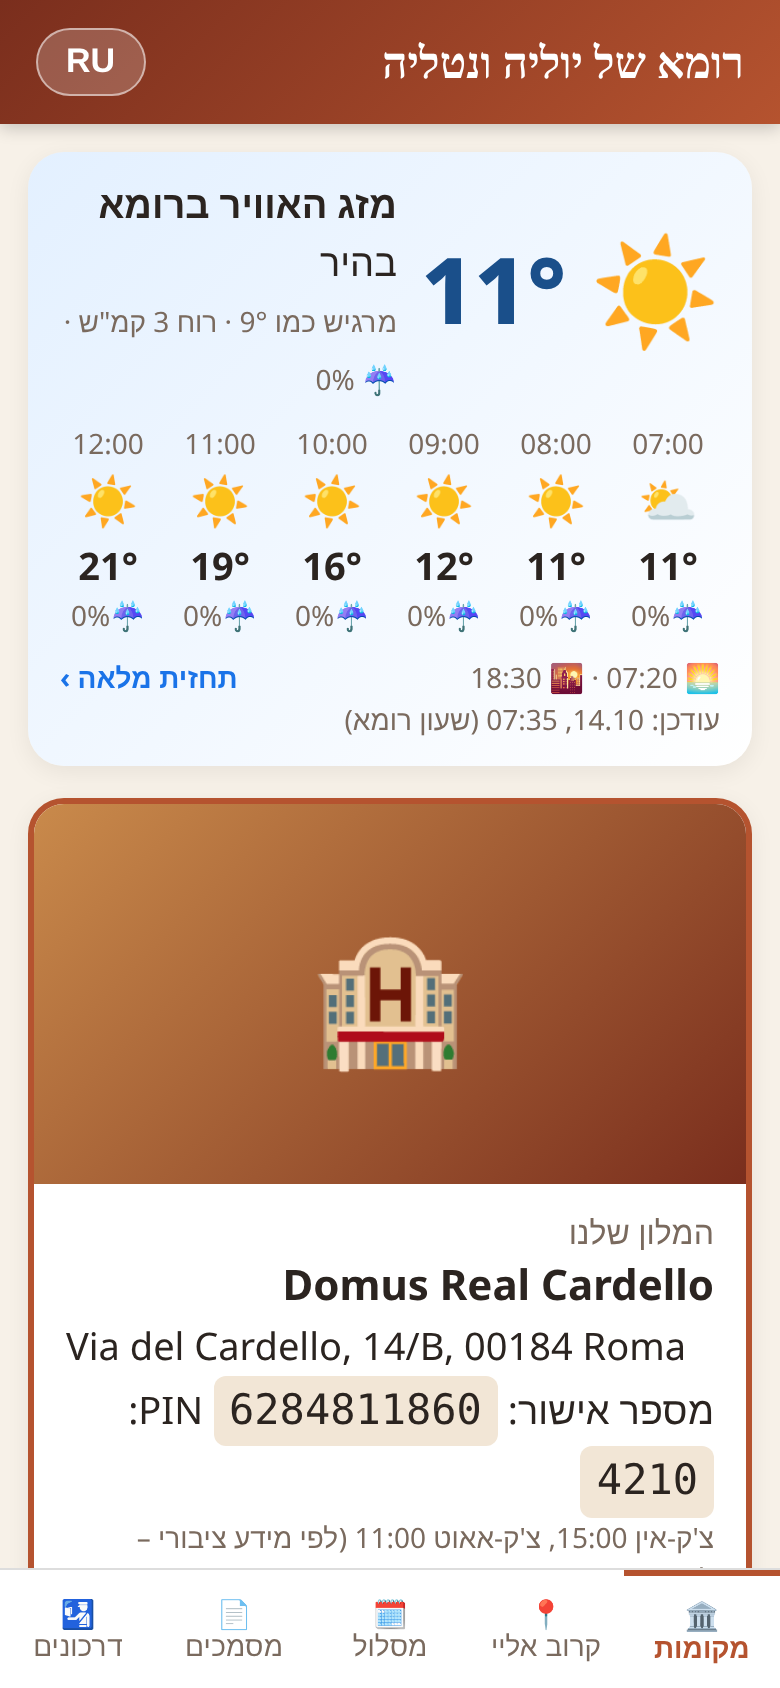
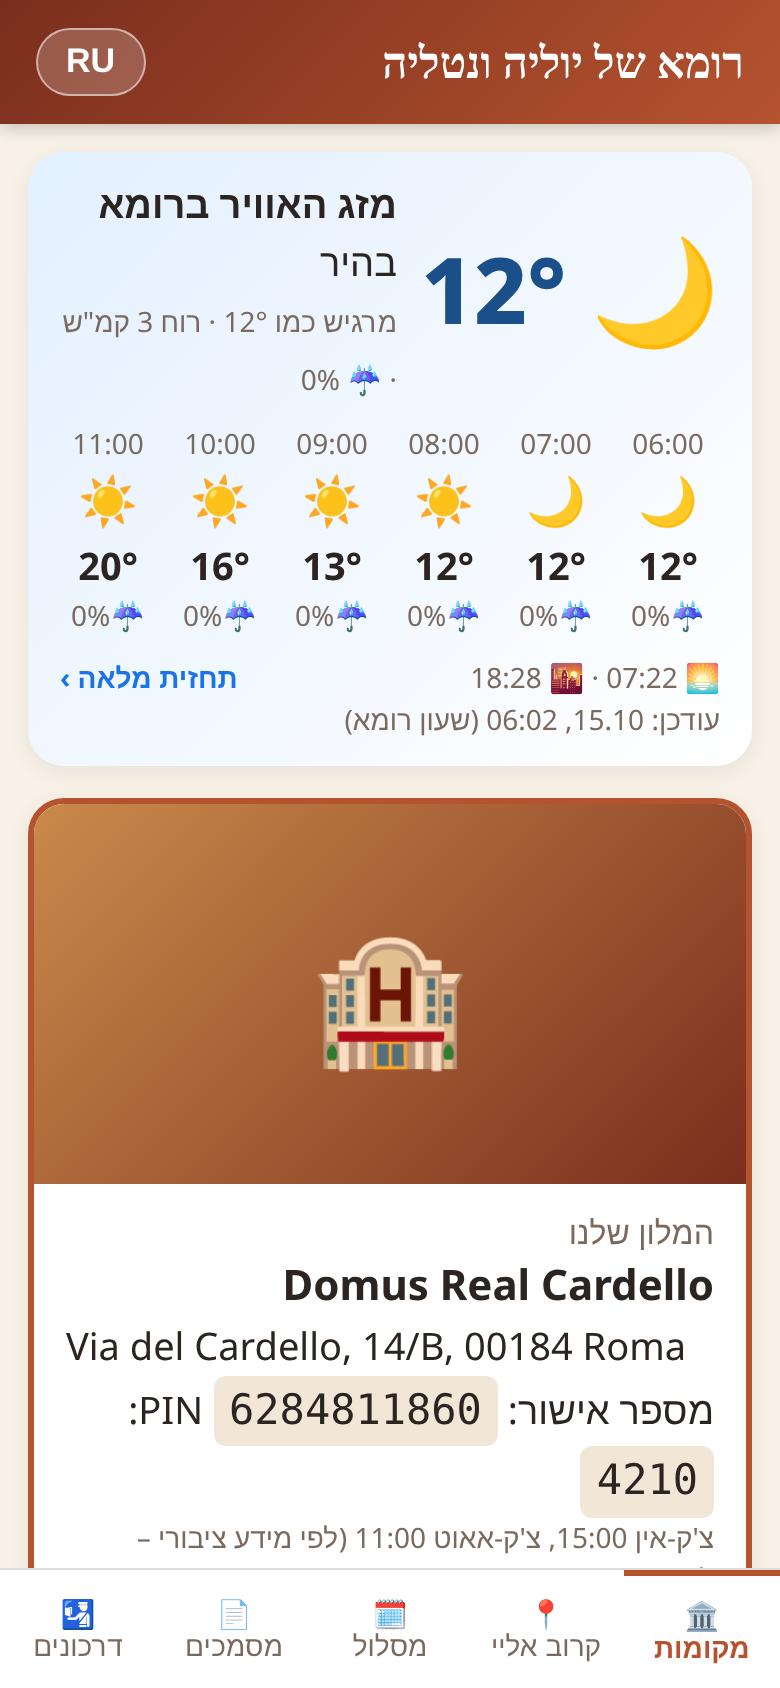
Daily weather chips with per-day hourly view (v6)

diff --git a/weather.js b/weather.js
@@ -1,7 +1,7 @@
-const WAPI="https://api.open-meteo.com/v1/forecast?latitude=41.893258&longitude=12.4898834&current=temperature_2m,apparent_temperature,weather_code,wind_speed_10m,is_day,precipitation_probability&hourly=temperature_2m,weather_code,precipitation_probability,is_day&daily=weather_code,temperature_2m_max,temperature_2m_min,precipitation_probability_max,sunrise,sunset&timezone=Europe%2FRome&forecast_days=8&wind_speed_unit=kmh";
+const WAPI="https://api.open-meteo.com/v1/forecast?latitude=41.893258&longitude=12.4898834&current=temperature_2m,apparent_temperature,weather_code,wind_speed_10m,is_day,precipitation_probability&hourly=temperature_2m,weather_code,precipitation_probability,is_day,wind_speed_10m&daily=weather_code,temperature_2m_max,temperature_2m_min,precipitation_probability_max,sunrise,sunset&timezone=Europe%2FRome&forecast_days=8&wind_speed_unit=kmh";
 const WC={0:["☀","בהיר","Ясно"],1:["🌤","בהיר ברובו","Преимущественно ясно"],2:["⛅","מעונן חלקית","Переменная облачность"],3:["☁","מעונן","Пасмурно"],45:["🌫","ערפל","Туман"],48:["🌫","ערפל קופא","Изморозь, туман"],51:["🌦","טפטוף קל","Слабая морось"],53:["🌦","טפטוף","Морось"],55:["🌧","טפטוף כבד","Сильная морось"],56:["🌧","טפטוף קופא","Ледяная морось"],57:["🌧","טפטוף קופא כבד","Сильная ледяная морось"],61:["🌦","גשם קל","Небольшой дождь"],63:["🌧","גשם","Дождь"],65:["🌧","גשם כבד","Сильный дождь"],66:["🌧","גשם קופא","Ледяной дождь"],67:["🌧","גשם קופא כבד","Сильный ледяной дождь"],71:["🌨","שלג קל","Небольшой снег"],73:["🌨","שלג","Снег"],75:["❄","שלג כבד","Сильный снег"],77:["🌨","גרגרי שלג","Снежная крупа"],80:["🌦","ממטרים קלים","Небольшой ливень"],81:["🌧","ממטרים","Ливень"],82:["⛈","ממטרים עזים","Сильный ливень"],85:["🌨","ממטרי שלג","Снегопад"],86:["❄","ממטרי שלג כבדים","Сильный снегопад"],95:["⛈","סופת רעמים","Гроза"],96:["⛈","סופת רעמים עם ברד","Гроза с градом"],99:["⛈","סופת רעמים וברד כבד","Гроза с сильным градом"]};
-const WT={he:{t:"מזג האוויר ברומא",feels:"מרגיש כמו",wind:"רוח",kmh:"קמ\"ש",rain:"סיכוי לגשם",hourly:"12 השעות הקרובות",daily:"תחזית יומית",trip:"ימי הטיול",rise:"זריחה",set:"שקיעה",upd:"עודכן",rome:"שעון רומא",offline:"אין חיבור – מוצג עדכון אחרון",more:"תחזית מלאה ›",am:"השירות המטאורולוגי האיטלקי (meteoam.it)",g:"מזג אוויר רומא בגוגל",src:"נתונים: Open-Meteo",err:"לא ניתן לטעון תחזית",days:["א׳","ב׳","ג׳","ד׳","ה׳","ו׳","ש׳"]},
-ru:{t:"Погода в Риме",feels:"Ощущается как",wind:"Ветер",kmh:"км/ч",rain:"Вероятность дождя",hourly:"Ближайшие 12 часов",daily:"Прогноз по дням",trip:"дни поездки",rise:"Восход",set:"Закат",upd:"Обновлено",rome:"время Рима",offline:"Нет сети – показано последнее обновление",more:"Полный прогноз ›",am:"Итальянская метеослужба (meteoam.it)",g:"Погода в Риме в Google",src:"Данные: Open-Meteo",err:"Не удалось загрузить прогноз",days:["Вс","Пн","Вт","Ср","Чт","Пт","Сб"]}};
+const WT={he:{t:"מזג האוויר ברומא",feels:"מרגיש כמו",wind:"רוח",kmh:"קמ\"ש",rain:"סיכוי לגשם",hourly:"12 השעות הקרובות",daily:"תחזית יומית",trip:"ימי הטיול",rise:"זריחה",set:"שקיעה",upd:"עודכן",rome:"שעון רומא",offline:"אין חיבור – מוצג עדכון אחרון",more:"תחזית מלאה ›",am:"השירות המטאורולוגי האיטלקי (meteoam.it)",g:"מזג אוויר רומא בגוגל",src:"נתונים: Open-Meteo",err:"לא ניתן לטעון תחזית",now:"עכשיו",tapDay:"הקישו על יום לתחזית שעתית",back:"→ כל הימים",dayH:"תחזית שעתית",days:["א׳","ב׳","ג׳","ד׳","ה׳","ו׳","ש׳"]},
+ru:{t:"Погода в Риме",feels:"Ощущается как",wind:"Ветер",kmh:"км/ч",rain:"Вероятность дождя",hourly:"Ближайшие 12 часов",daily:"Прогноз по дням",trip:"дни поездки",rise:"Восход",set:"Закат",upd:"Обновлено",rome:"время Рима",offline:"Нет сети – показано последнее обновление",more:"Полный прогноз ›",am:"Итальянская метеослужба (meteoam.it)",g:"Погода в Риме в Google",src:"Данные: Open-Meteo",err:"Не удалось загрузить прогноз",now:"Сейчас",tapDay:"Нажмите на день для почасового прогноза",back:"‹ Все дни",dayH:"Почасовой прогноз",days:["Вс","Пн","Вт","Ср","Чт","Пт","Сб"]}};
 let W=null,Woff=false;try{W=JSON.parse(localStorage.wx||"null")}catch(e){}
 const wc=(c,n)=>{const x=WC[c]||["🌡","—","—"];return [n===0&&c<=1?"🌙":x[0],L=="he"?x[1]:x[2]]};
 const hm=s=>s.slice(11,16),r=Math.round;
@@ -9,15 +9,21 @@ async function wxFetch(){try{const d=await (await fetch(WAPI,{cache:"no-store"})
 function wxUpd(){const t=WT[L];if(!W)return"";const ft=new Date(W.fetchedAt).toLocaleString(L=="he"?"he-IL":"ru-RU",{timeZone:"Europe/Rome",day:"numeric",month:"numeric",hour:"2-digit",minute:"2-digit"});return `<div class="small">${Woff?"⚠ "+t.offline+" · ":""}${t.upd}: ${ft} (${t.rome})</div>`}
 function wxMini(){const t=WT[L];if(!W)return `<div class="wx" id="wx"><b>${t.t}</b><div class="small">${Woff?t.err:"…"}</div></div>`;
 const c=W.current,[i,s]=wc(c.weather_code,c.is_day),d=W.daily;
-return `<div class="wx" id="wx" onclick="wxSheet()"><div class="wxtop"><span class="wxi">${i}</span><span class="wxt">${r(c.temperature_2m)}°</span><div><b>${t.t}</b><br>${s}<br><span class="small">${t.feels} ${r(c.apparent_temperature)}° · ${t.wind} ${r(c.wind_speed_10m)} ${t.kmh} · ☔ ${c.precipitation_probability??d.precipitation_probability_max[0]}%</span></div></div>
-<div class="wxrow">${wxHours(6)}</div><div class="small" style="display:flex;justify-content:space-between"><span>🌅 ${hm(d.sunrise[0])} · 🌇 ${hm(d.sunset[0])}</span><b style="color:#1a73e8">${t.more}</b></div>${wxUpd()}</div>`}
+return `<div class="wx" id="wx"><div class="wxnow" onclick="wxSheet()"><span style="font-size:34px">${i}</span><b style="font-size:30px;color:#1a4f8a">${r(c.temperature_2m)}°</b><span><b>${t.t}</b> · ${t.now}: ${s}<br><span class="small">${t.feels} ${r(c.apparent_temperature)}° · ${t.wind} ${r(c.wind_speed_10m)} ${t.kmh}</span></span></div>
+<div class="wxchips">${wxChips()}</div><div class="small" style="display:flex;justify-content:space-between;gap:8px"><span>${t.tapDay}</span><b style="color:#1a73e8;white-space:nowrap" onclick="wxSheet()">${t.more}</b></div>${wxUpd()}</div>`}
+const isTrip=x=>x>="2026-10-17"&&x<="2026-10-21";
+function wxDate(x){const t=WT[L],dt=new Date(x+"T12:00:00Z");return `${t.days[dt.getUTCDay()]} ${dt.getUTCDate()}.${dt.getUTCMonth()+1}`}
+function wxChips(){const d=W.daily;return d.time.map((x,j)=>`<div class="wxc${isTrip(x)?" trip":""}" onclick="wxDay(${j})"><b>${wxDate(x)}</b><div style="font-size:28px">${wc(d.weather_code[j])[0]}</div><b>${r(d.temperature_2m_max[j])}°</b><span class="small">${r(d.temperature_2m_min[j])}°</span><div class="small">☔${d.precipitation_probability_max[j]}%</div></div>`).join("")}
+function wxDay(j){const t=WT[L],d=W.daily,x=d.time[j],h=W.hourly,[ic,ds]=wc(d.weather_code[j]);
+const rows=h.time.map((tm,k)=>[tm,k]).filter(([tm])=>tm.startsWith(x)).map(([tm,k])=>`<div class="wxd"><b style="width:56px">${hm(tm)}</b><span style="font-size:26px">${wc(h.weather_code[k],h.is_day[k])[0]}</span><b style="width:44px">${r(h.temperature_2m[k])}°</b><span style="flex:1">☔ ${h.precipitation_probability[k]??"–"}%</span><span class="small">💨 ${h.wind_speed_10m?r(h.wind_speed_10m[k]):"–"} ${t.kmh}</span></div>`).join("");
+sheet(`<div class="in"><button class="btn alt" style="margin-top:0" onclick="wxSheet(1)">${t.back}</button><h2 style="margin-top:12px">${wxDate(x)} ${isTrip(x)?"🟧":""}</h2><p>${ic} ${ds} · <b>${r(d.temperature_2m_max[j])}°/${r(d.temperature_2m_min[j])}°</b> · ☔${d.precipitation_probability_max[j]}%<br><span class="small">🌅 ${hm(d.sunrise[j])} · 🌇 ${hm(d.sunset[j])}</span></p><h3>${t.dayH}</h3>${rows}${wxUpd()}</div>`,1)}
 function wxHours(n){const h=W.hourly,now=W.current.time.slice(0,13);let k=h.time.findIndex(x=>x.slice(0,13)>=now);if(k<0)k=0;
 return h.time.slice(k,k+n).map((x,j)=>`<div class="wxh"><div class="small">${hm(x)}</div><div style="font-size:24px">${wc(h.weather_code[k+j],h.is_day[k+j])[0]}</div><b>${r(h.temperature_2m[k+j])}°</b><div class="small">☔${h.precipitation_probability[k+j]}%</div></div>`).join("")}
-function wxSheet(){const t=WT[L],d=W.daily,c=W.current,[i,s]=wc(c.weather_code,c.is_day);
+function wxSheet(rep){const t=WT[L],d=W.daily,c=W.current,[i,s]=wc(c.weather_code,c.is_day);
 const days=d.time.map((x,j)=>{const dt=new Date(x+"T12:00:00Z"),trip=x>="2026-10-17"&&x<="2026-10-21";const [ic,ds]=wc(d.weather_code[j]);
-return `<div class="wxd${trip?" trip":""}"><b style="width:68px">${t.days[dt.getUTCDay()]} ${dt.getUTCDate()}.${dt.getUTCMonth()+1}</b><span style="font-size:26px">${ic}</span><span style="flex:1">${ds}<br><span class="small">☔${d.precipitation_probability_max[j]}% · 🌅${hm(d.sunrise[j])} 🌇${hm(d.sunset[j])}</span></span><b>${r(d.temperature_2m_max[j])}°/${r(d.temperature_2m_min[j])}°</b></div>`}).join("");
+return `<div class="wxd${trip?" trip":""}" style="cursor:pointer" onclick="wxDay(${j})"><b style="width:68px">${t.days[dt.getUTCDay()]} ${dt.getUTCDate()}.${dt.getUTCMonth()+1}</b><span style="font-size:26px">${ic}</span><span style="flex:1">${ds} ›<br><span class="small">☔${d.precipitation_probability_max[j]}% · 🌅${hm(d.sunrise[j])} 🌇${hm(d.sunset[j])}</span></span><b>${r(d.temperature_2m_max[j])}°/${r(d.temperature_2m_min[j])}°</b></div>`}).join("");
 sheet(`<div class="in"><h2>${t.t}</h2><div class="wxtop"><span class="wxi">${i}</span><span class="wxt">${r(c.temperature_2m)}°</span><div>${s}<br>${t.feels} ${r(c.apparent_temperature)}°<br>${t.wind} ${r(c.wind_speed_10m)} ${t.kmh} · ${t.rain} ${c.precipitation_probability??"–"}%</div></div>
-<h3>${t.hourly}</h3><div class="wxrow" style="overflow-x:auto">${wxHours(12)}</div><h3>${t.daily} <span class="small">(🟧 = ${t.trip} 17–21.10)</span></h3>${days}
-${wxUpd()}<a class="btn alt" href="https://www.meteoam.it/it/meteo-citta/roma" target="_blank">🇮🇹 ${t.am}</a><a class="btn alt" href="https://www.google.com/search?q=${encodeURIComponent("מזג אוויר רומא")}" target="_blank">🔎 ${t.g}</a><p class="small">${t.src} (open-meteo.com)</p></div>`)}
+<h3>${t.hourly}</h3><div class="wxrow" style="overflow-x:auto">${wxHours(12)}</div><h3>${t.daily} <span class="small">(🟧 = ${t.trip} 17–21.10)</span></h3><p class="small">${t.tapDay}</p>${days}
+${wxUpd()}<a class="btn alt" href="https://www.meteoam.it/it/meteo-citta/roma" target="_blank">🇮🇹 ${t.am}</a><a class="btn alt" href="https://www.google.com/search?q=${encodeURIComponent("מזג אוויר רומא")}" target="_blank">🔎 ${t.g}</a><p class="small">${t.src} (open-meteo.com)</p></div>`,rep)}
 function wxPaint(){const e=document.getElementById("wx");if(e)e.outerHTML=wxMini()}
 wxFetch();setInterval(wxFetch,30*60*1000);document.addEventListener("visibilitychange",()=>{if(!document.hidden&&(!W||Date.now()-W.fetchedAt>10*60*1000))wxFetch()});

diff --git a/sw.js b/sw.js
@@ -1,4 +1,4 @@
-const C="roma-v5",A=["./","index.html","style.css","data.js","ui.js","app.js","weather.js","manifest.json","attribution.json","icon-192.png","icon-512.png","sec/meta.json","sec/p1.bin","sec/p2.bin","img/borghese.jpg","img/capitoline.jpg","img/colosseum.jpg","img/forum.jpg","img/navona.jpg","img/pantheon.jpg","img/peter.jpg","img/santangelo.jpg","img/spanish.jpg","img/trastevere.jpg","img/trevi.jpg","img/vatican.jpg","index.html?v=5","style.css?v=5","data.js?v=5","ui.js?v=5","weather.js?v=5","app.js?v=5","manifest.json?v=5"];
+const C="roma-v6",A=["./","index.html","style.css","data.js","ui.js","app.js","weather.js","manifest.json","attribution.json","icon-192.png","icon-512.png","sec/meta.json","sec/p1.bin","sec/p2.bin","img/borghese.jpg","img/capitoline.jpg","img/colosseum.jpg","img/forum.jpg","img/navona.jpg","img/pantheon.jpg","img/peter.jpg","img/santangelo.jpg","img/spanish.jpg","img/trastevere.jpg","img/trevi.jpg","img/vatican.jpg","index.html?v=6","style.css?v=6","data.js?v=6","ui.js?v=6","weather.js?v=6","app.js?v=6","manifest.json?v=6"];
 const NET=/(\/|index\.html|\.js|\.css|manifest\.json)$/;
 self.addEventListener("install",e=>{self.skipWaiting();e.waitUntil(caches.open(C).then(c=>c.addAll(A.map(u=>new Request(u,{cache:"reload"})))))});
 self.addEventListener("activate",e=>{e.waitUntil(caches.keys().then(k=>Promise.all(k.filter(x=>x!=C).map(x=>caches.delete(x)))).then(()=>self.clients.claim()))});

diff --git a/app.js b/app.js
@@ -16,7 +16,7 @@ else if(tab==2){h=t.days.map(([d,it])=>`<div class="day"><h2>${d}</h2><ul>${it.m
 else if(tab==4){h=ppView()}
 else{h=`<div class="box">${DOCS[L]}</div><div class="box"><h3>🗣 ${t.phrases}</h3>${PHR.map(r=>`<p><span class="ph-it">${r[0]}</span><br>${L=="he"?r[1]:r[2]}<br><span class="small">${L=="he"?r[3]:r[4]}</span></p>`).join("")}</div>`}
 $("#main").innerHTML=h;if(tab==1&&pos)showNear();if(tab==4)ppLoad()}
-function sheet(html){$("#sheet").innerHTML=`<button class="x" onclick="closeM()">✕ ${T[L].close}</button>`+html;$("#modal").hidden=false;$("#modal").scrollTop=0;history.pushState({m:1},"")}
+function sheet(html,rep){const open=!$("#modal").hidden;$("#sheet").innerHTML=`<button class="x" onclick="history.back()">✕ ${T[L].close}</button>`+html;$("#modal").hidden=false;$("#modal").scrollTop=0;if(!(rep&&open))history.pushState({m:1},"")}
 function closeM(){if(!$("#modal").hidden){$("#modal").hidden=true}}onpopstate=()=>{$("#modal").hidden=true};
 function openP(id){const p=P.find(x=>x.id==id),d=p[L],t=T[L];sheet(`<img src="img/${p.id}.jpg" alt=""><div class="in"><h2>${d.n}</h2>
 <a class="btn" href="${dirUrl(p.lat,p.lng)}" target="_blank">${t.nav}</a><p class="small">${t.taxi}</p>

diff --git a/index.html b/index.html
@@ -1,10 +1,10 @@
 <!doctype html><html lang="he" dir="rtl"><head><meta charset="utf-8">
 <meta name="viewport" content="width=device-width,initial-scale=1,viewport-fit=cover">
-<meta name="theme-color" content="#7a2e1d"><link rel="manifest" href="manifest.json?v=5">
+<meta name="theme-color" content="#7a2e1d"><link rel="manifest" href="manifest.json?v=6">
 <link rel="apple-touch-icon" href="icon-192.png"><meta name="apple-mobile-web-app-capable" content="yes">
-<title>Roma</title><link rel="stylesheet" href="style.css?v=5"></head><body>
+<title>Roma</title><link rel="stylesheet" href="style.css?v=6"></head><body>
 <header><h1 id="title"></h1><button id="lang"></button></header>
 <main id="main"></main>
 <nav id="tabs"></nav>
 <div id="modal" hidden><div class="sheet" id="sheet"></div></div>
-<script src="data.js?v=5"></script><script src="ui.js?v=5"></script><script src="weather.js?v=5"></script><script src="app.js?v=5"></script></body></html>
+<script src="data.js?v=6"></script><script src="ui.js?v=6"></script><script src="weather.js?v=6"></script><script src="app.js?v=6"></script></body></html>

diff --git a/style.css b/style.css
@@ -19,3 +19,4 @@ nav button{flex:1;border:0;background:none;padding:12px 2px;font-size:14px;color
 .wx{background:linear-gradient(135deg,#e3f0ff,#fff);border-radius:18px;padding:12px 16px;margin-bottom:16px;box-shadow:0 3px 12px #0001;cursor:pointer}
 .wxtop{display:flex;align-items:center;gap:12px}.wxi{font-size:52px}.wxt{font-size:46px;font-weight:800;color:#1a4f8a}
 .wxrow{display:flex;gap:4px;margin:10px 0;text-align:center}.wxh{flex:1;min-width:52px}.wxd{display:flex;align-items:center;gap:10px;padding:8px 6px;border-bottom:1px solid #eee}.wxd.trip{background:#fff1e0;border-radius:10px}
+.wxnow{display:flex;align-items:center;gap:10px}.wxchips{display:flex;gap:8px;overflow-x:auto;margin:10px -4px;padding:2px 4px 6px}.wxc{flex:0 0 74px;background:#fff;border:1px solid #d8e4f2;border-radius:14px;padding:8px 4px;text-align:center;cursor:pointer;font-size:16px}.wxc.trip{background:#fff1e0;border:2px solid #e08a3c}
